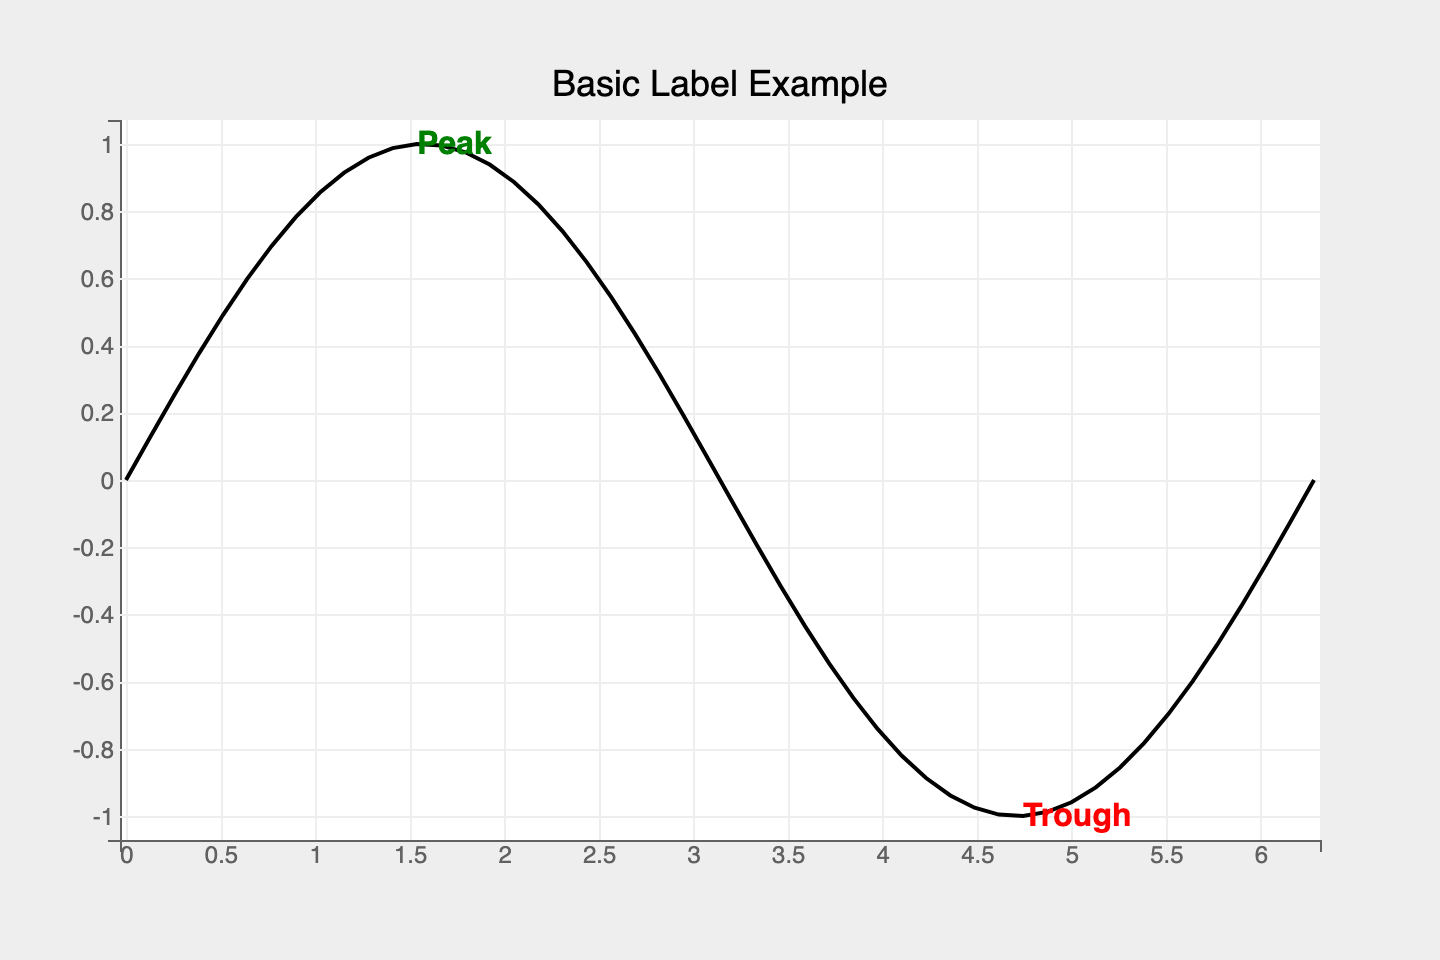
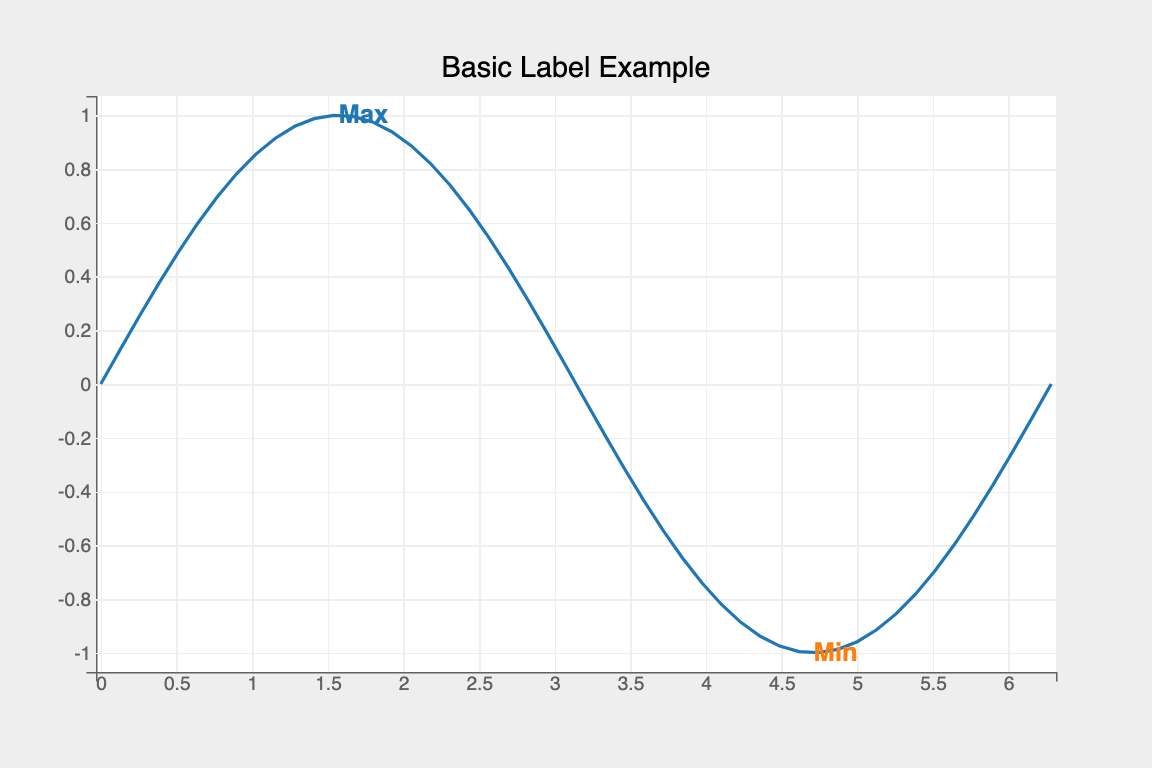
ammend spelling

diff --git a/docs/usage/marks/label.md b/docs/usage/marks/label.md
@@ -26,13 +26,13 @@ For further customization, any of the attributes above can be passed as keyword 
 import numpy as np
 import bqplot.pyplot as plt
 
-fig = plt.figure(title="Basic Label Example", max_aspect_ratio=1.5)
+fig = plt.figure(title="Basic Label Example")
 x   = np.linspace(0, 2 * np.pi)
 y   = np.sin(x)
 
-line   = plt.plot(x, y, colors="black")
+line   = plt.plot(x, y)
 label  = plt.label(
-    text=["Peak", "Trough"],
+    text=["Max", "Min"],
     x=[.5 * np.pi, 1.5 * np.pi],
     y=[1, -1]
 )
@@ -46,7 +46,7 @@ fig
     label.y_offset = 10
     ```
 
-Attributes can be updated in separate notebook cells or in callbacks when an event is triggered!
+Attributes can also be updated in separate notebook cells or in callbacks when an event is triggered!
 ```py
 # update the label color
 label.colors   = ['red', 'blue']
